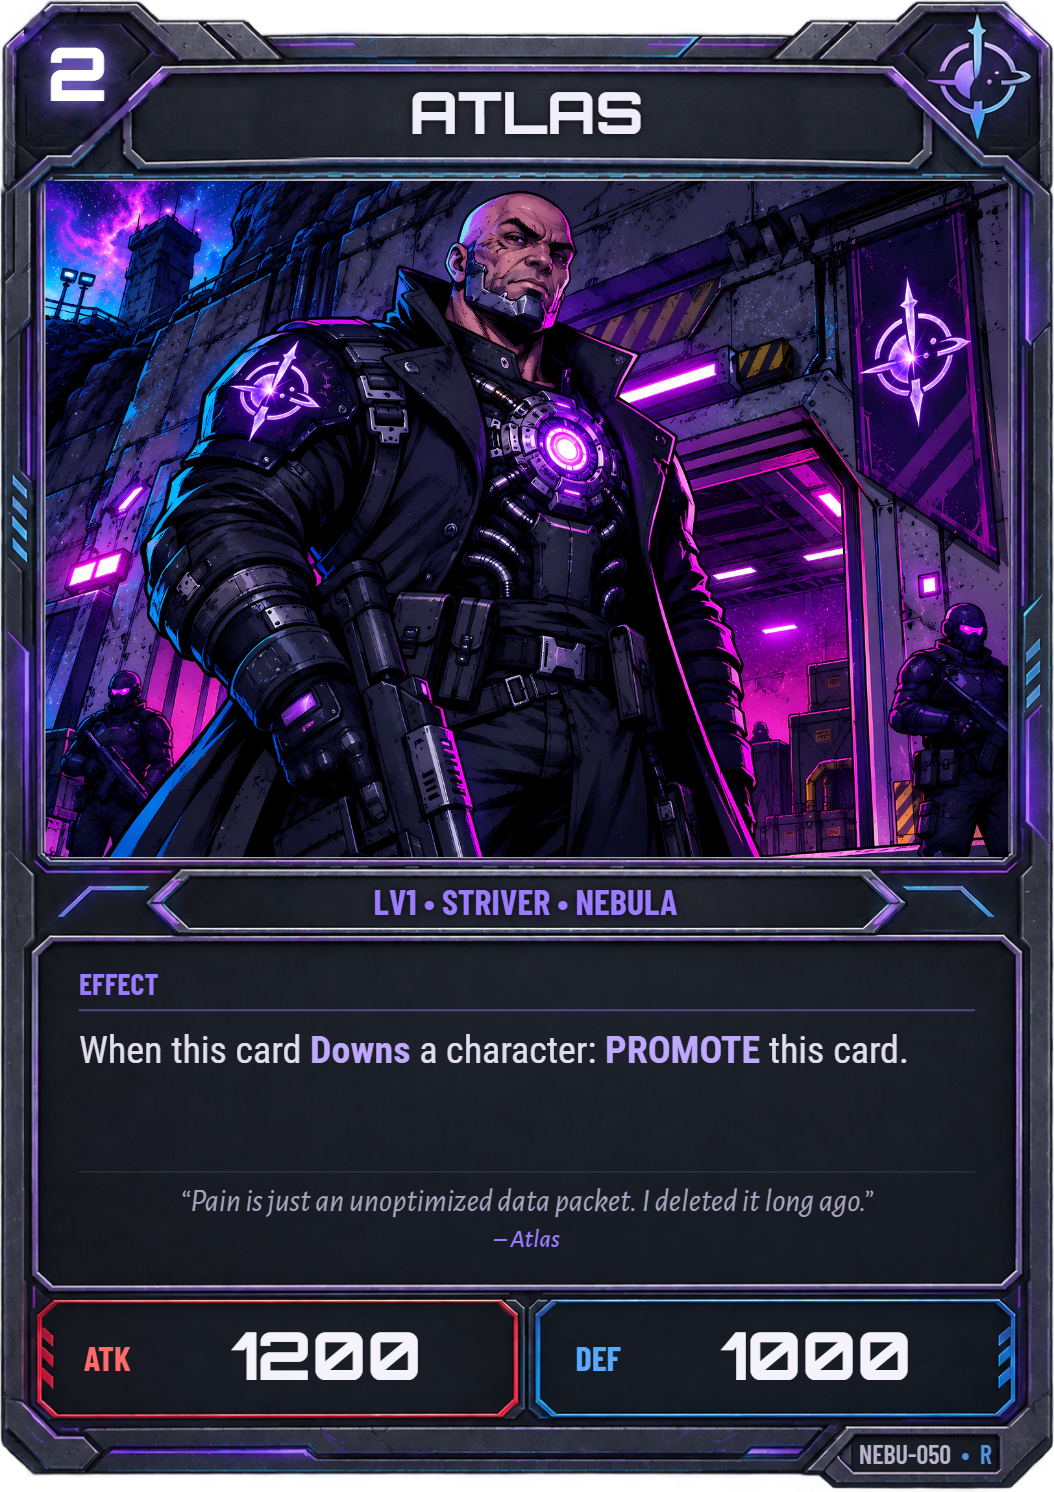
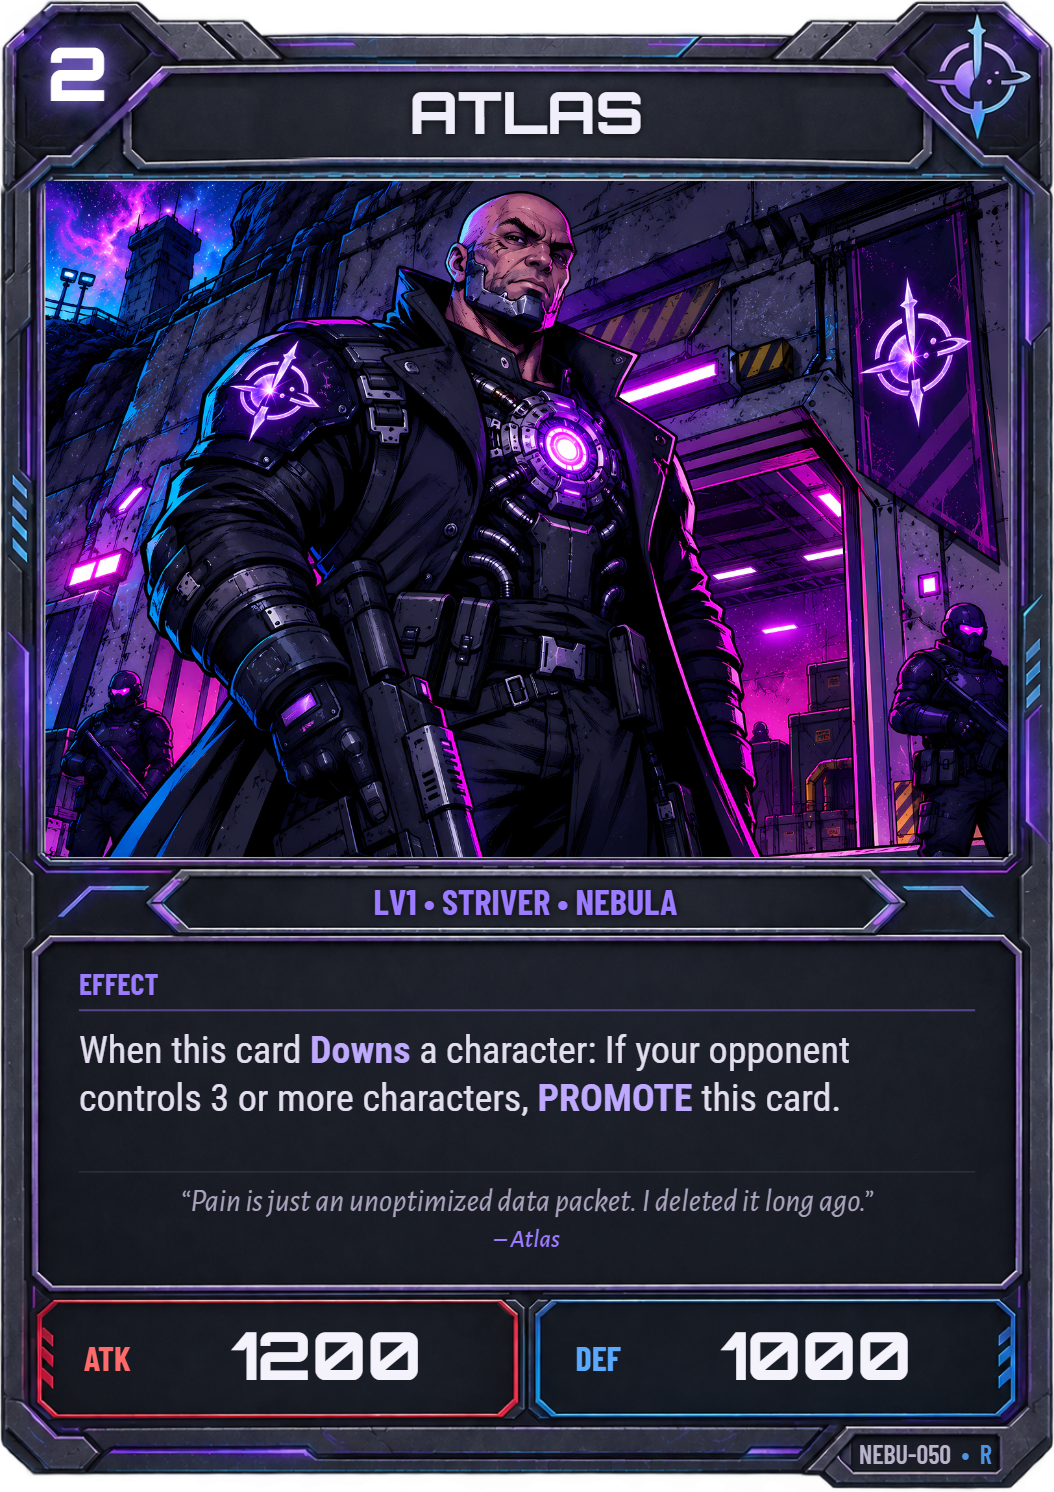
Cards: no two cards play the same any more (Forge 1 export)
Flint L2 STOKE 300; Blaze Maddox L2 +600 ATK when attacking a BURNING character; Dice Delgado L2/L3
roll for Morale (100 / 150 a pip; Roxy keeps the ATK rolls); Kowalski L2 PIERCE when attacking, L1
promotes on a KO in DEF; Tripwire SUPPRESS 500 and negate (not Sucker Punch's DOWN); Atlas L1
promotes on a Down while the opponent controls 3+.

Changed region(s): [[0.3643, 0.6783, 0.8501, 0.7708], [0.0911, 0.7091, 0.334, 0.7399]]

diff --git a/shared/cards_forge.js b/shared/cards_forge.js
@@ -1200,12 +1200,13 @@ export const FORGE_CARDS = {
         "art_url": "card_mili_005",
         "code": "MILI-005",
         "flavourText": "I Forgot that we put that there",
-        "effectText": "When an enemy attacks one of your MILITIA characters: DOWN the attacker and negate the attack.",
+        "effectText": "When an enemy attacks one of your MILITIA characters: SUPPRESS the attacker for 500 and negate the attack.",
         "effects": [
             {
                 "when": "defend",
-                "do": "down",
+                "do": "suppress",
                 "target": "attacker",
+                "amount": 500,
                 "negate": true
             }
         ],
@@ -3433,14 +3434,13 @@ export const FORGE_CARDS = {
         "art_url": "card_wild_022",
         "code": "WILD-022",
         "flavourText": "Seven's my lucky number. So is every other one.",
-        "effectText": "When this card attacks: Roll a die: it gains +100 ATK for each pip rolled for this Brawl.\nAfter this card KOs 2 characters: PROMOTE this card.",
+        "effectText": "When this card attacks: Roll a die: your opponent loses 100 Morale for each pip rolled.\nAfter this card KOs 2 characters: PROMOTE this card.",
         "effects": [
             {
                 "when": "attack",
-                "do": "buff",
-                "target": "self",
+                "do": "damage",
                 "per": "roll",
-                "atk": 100
+                "amount": 100
             },
             {
                 "when": "ko",
@@ -3469,14 +3469,13 @@ export const FORGE_CARDS = {
         "art_url": "card_wild_023",
         "code": "WILD-023",
         "flavourText": "Seven's my lucky number. So is every other one.",
-        "effectText": "When this card attacks: Roll a die: it gains +200 ATK for each pip rolled for this Brawl.\nThis card has LOADED DICE.\nWhen this card KOs a character: Your opponent loses 300 Morale. DOUBLE OR NOTHING.",
+        "effectText": "When this card attacks: Roll a die: your opponent loses 150 Morale for each pip rolled.\nThis card has LOADED DICE.\nWhen this card KOs a character: Your opponent loses 300 Morale. DOUBLE OR NOTHING.",
         "effects": [
             {
                 "when": "attack",
-                "do": "buff",
-                "target": "self",
+                "do": "damage",
                 "per": "roll",
-                "atk": 200
+                "amount": 150
             },
             {
                 "when": "passive",
@@ -4568,11 +4567,13 @@ export const FORGE_CARDS = {
         "art_url": "card_nebu_050",
         "code": "NEBU-050",
         "flavourText": "Pain is just an unoptimized data packet. I deleted it long ago.",
-        "effectText": "When this card Downs a character: PROMOTE this card.",
+        "effectText": "When this card Downs a character: If your opponent controls 3 or more characters, PROMOTE this card.",
         "effects": [
             {
                 "when": "down",
-                "do": "promote"
+                "do": "promote",
+                "if": "enemies_ge",
+                "n": 3
             }
         ],
         "clanName": "Nebula",
@@ -6283,11 +6284,12 @@ export const FORGE_CARDS = {
         "art_url": "card_mili_045",
         "code": "MILI-045",
         "flavourText": "They gave me a gun. Then a bigger gun. Then they disassembled a tank to fit for me.",
-        "effectText": "When this card KOs a character: PROMOTE this card.",
+        "effectText": "When this card KOs a character in DEF position: PROMOTE this card.",
         "effects": [
             {
                 "when": "ko",
-                "do": "promote"
+                "do": "promote",
+                "if": "vs_def"
             }
         ],
         "clanName": "Militia",
@@ -6311,11 +6313,11 @@ export const FORGE_CARDS = {
         "art_url": "card_mili_046",
         "code": "MILI-046",
         "flavourText": "They gave me a gun. Then a bigger gun. Then they disassembled a tank to fit for me.",
-        "effectText": "Your opponent must attack this card first if it is standing.\nAfter this card KOs 2 characters: PROMOTE this card.",
+        "effectText": "When this card attacks: It has PIERCE for this attack.\nAfter this card KOs 2 characters: PROMOTE this card.",
         "effects": [
             {
-                "when": "passive",
-                "do": "guard"
+                "when": "attack",
+                "do": "pierce"
             },
             {
                 "when": "ko",
@@ -7505,11 +7507,11 @@ export const FORGE_CARDS = {
         "art_url": "card_arso_006",
         "code": "ARSO-006",
         "flavourText": "Fill her up? Sure. With what, though?",
-        "effectText": "When this card attacks: Give one enemy character BURN 300.\nAfter this card attacks 2 times: PROMOTE this card.",
+        "effectText": "When this card attacks: Give one enemy character STOKE 300.\nAfter this card attacks 2 times: PROMOTE this card.",
         "effects": [
             {
                 "when": "attack",
-                "do": "burn",
+                "do": "stoke",
                 "target": "enemy",
                 "amount": 300
             },
@@ -7720,13 +7722,14 @@ export const FORGE_CARDS = {
         "art_url": "card_arso_012",
         "code": "ARSO-012",
         "flavourText": "Hands up. Mine are on fire.",
-        "effectText": "When this card attacks: Give one enemy character BURN 300.\nAfter this card KOs 2 characters: PROMOTE this card.",
+        "effectText": "When this card attacks a BURNING character: This card gains +600 ATK for this Brawl.\nAfter this card KOs 2 characters: PROMOTE this card.",
         "effects": [
             {
                 "when": "attack",
-                "do": "burn",
-                "target": "enemy",
-                "amount": 300
+                "do": "buff",
+                "target": "self",
+                "if": "vs_burning",
+                "atk": 600
             },
             {
                 "when": "ko",
